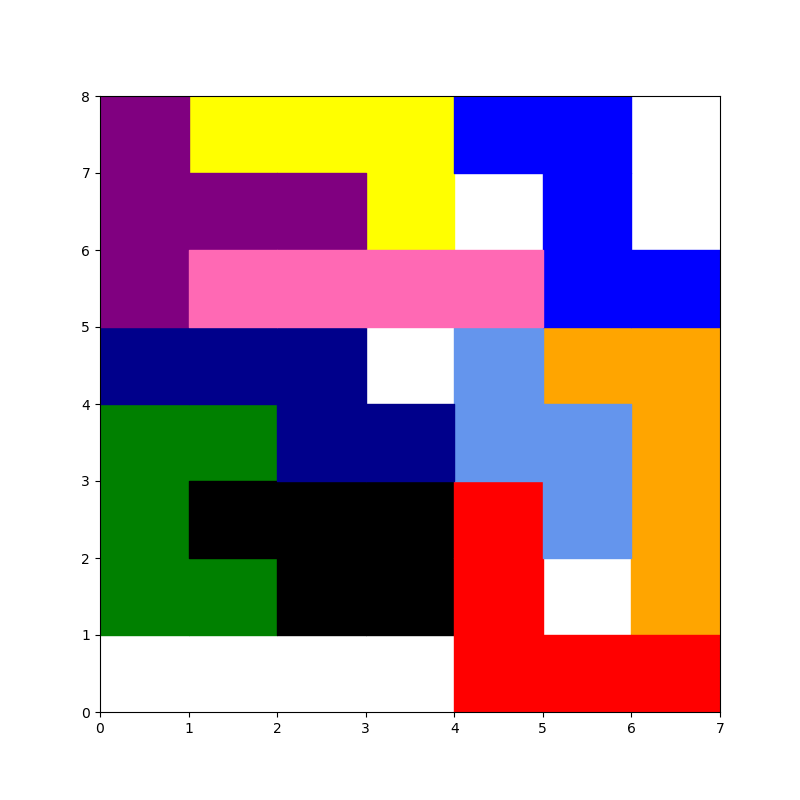
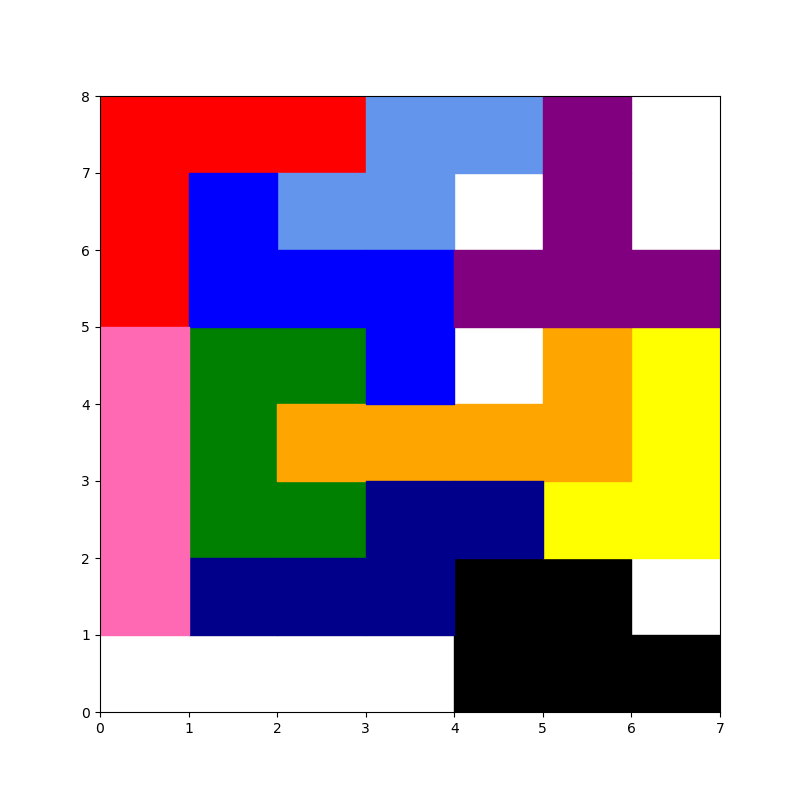
Re-worked block class

diff --git a/transformations.py b/transformations.py
@@ -1,7 +1,7 @@
 from ortools.sat.python import cp_model
 import numpy as np
 
-from classes import Point, Block
+from classes import Point, Cluster
 
 grid_size = 3
 
@@ -26,40 +26,34 @@ def transform_point(point: Point,
 
     return new_point
 
-def transform_block(block: Block, 
+def transform_cluster(cluster: Cluster, 
                   rotation: int, 
-                  flipped=False) -> Block:
+                  flipped=False) -> Cluster:
     """Takes a block, and rotates it 'rotation' quarters anti-clockwise around the origin.
     Also flips the block horizontally if flipped is True.
     """
 
-    new_block = Block({transform_point(point, rotation, flipped) for point in block.points})
-    return new_block
+    new_cluster = Cluster({transform_point(point, rotation, flipped) for point in cluster.points})
+    return new_cluster
 
-def centre_block(block: Block) -> Block:
+def centre_cluster(cluster: Cluster) -> Cluster:
 
-    min_x = min([point.x for point in block.points])
-    min_y = min([point.y for point in block.points])
+    min_x = min([point.x for point in cluster.points])
+    min_y = min([point.y for point in cluster.points])
 
-    new_block = Block([Point((point.x-min_x, point.y-min_y)) for point in block.points])
-    return new_block
+    new_cluster = Cluster([Point((point.x-min_x, point.y-min_y)) for point in cluster.points])
+    return new_cluster
 
-def unique_block_transformations(block: Block) -> list[Block]:
+def unique_cluster_orientations(cluster: Cluster) -> list[Cluster]:
 
-    unique_transformations = set()
+    unique_orientations = set()
 
     for flipped in [True,False]:
         for rotation in range(4):
-            new_block = transform_block(block, rotation, flipped)
-            new_block = centre_block(new_block)
-            unique_transformations.add(new_block)
+            new_cluster = transform_cluster(cluster, rotation, flipped)
+            new_cluster = centre_cluster(new_cluster)
+            unique_orientations.add(new_cluster)
 
-    unique_transformations = list(unique_transformations)
+    unique_orientations = list(unique_orientations)
 
-    return unique_transformations
-
-co_ords = [(0,0),(1,0),(0,1),(1,1)]
-block = Block([Point(p) for p in co_ords])
-all_blocks = unique_block_transformations(block)
-for a in all_blocks:
-    print(a)
+    return unique_orientations

diff --git a/model.py b/model.py
@@ -2,52 +2,27 @@ from ortools.sat.python import cp_model
 from classes import Point, Block
 from transformations import unique_block_transformations
 from matplotlib import pyplot as plt
+from build_inputs import Input
 
-# grid_x = 5
-# grid_y = 5
-
-# blocks = {
-#     'tee':{(0,0),(0,-1),(0,-2),(-1,0),(1,0)},
-#     'chunk':{(0,0),(1,0),(2,0),(1,1),(2,1)},
-#     'line':{(0,0),(0,1),(0,2)},
-#     'corner':{(0,0),(1,0),(2,0),(3,0),(3,1),(3,2)},
-#     'curly':{(0,0),(0,1),(0,2),(1,0),(2,0),(2,1)}
-# }
-
-grid_x = 7
-grid_y = 8
-
-blocks = {
-    'n':{(0,0),(0,1),(1,1),(2,1),(2,0)},
-    'b':{(0,0),(1,0),(2,0),(1,1),(2,1)},
-    'small_l':{(0,0),(0,1),(1,0),(2,0)},
-    'medium_l':{(0,0),(0,1),(1,0),(2,0),(3,0)},
-    'big_l':{(0,0),(0,1),(0,2),(1,0),(2,0)},
-    'short_z':{(0,0),(0,1),(1,1),(1,2)},
-    'wide_z':{(0,0),(0,1),(1,1),(2,1),(2,2)},
-    'tall_z':{(0,0),(0,1),(0,2),(1,2),(1,3)},
-    't':{(0,0),(0,-1),(0,-2),(-1,0),(1,0)},
-    'line':{(0,0),(0,1),(0,2),(0,3)},
-}
-
-avoid_squares = {(0,0),(1,0),(2,0),(3,0),(6,6),(6,7),
-                 (5,1),(3,4),(4,6)
-                 }
-
-blocks = {name:Block(Point(p) for p in points) for name,points in blocks.items()}
-transformations = {name:unique_block_transformations(block) for name,block in blocks.items()}
+inputs = Input('grid.json','blocks.json')
 
 model = cp_model.CpModel()
 
 all_blocks = {}
 
-# all_blocks is a dictionary of whether we have a block in a certain position / transformation
-for b, list_of_transforms in transformations.items():
-    for t,_ in enumerate(list_of_transforms):
-        for x in range(grid_x):
-            for y in range(grid_y):
+def initialise_block_bools(blocks, grid_x, grid_y) -> dict:
 
-                all_blocks[(b,t,x,y)] = model.new_bool_var(f'{b}_{t}_{x}_{y}')
+    block_bools = dict()
+
+    for block_name, clusters in blocks.items():
+        for cluster_id,_ in enumerate(clusters):
+            for x_pos in range(grid_x):
+                for y_pos in range(grid_y):
+                    all_blocks[(block_name,cluster_id,x_pos,y_pos)] = (
+                        model.new_bool_var(f'{block_name}_{cluster_id}_{x_pos}_{y_pos}')
+                    )
+
+    return block_bools
 
 # all_squares is an int showing the number of blocks that are on that square
 all_squares = {}

diff --git a/build_inputs.py b/build_inputs.py
@@ -1,0 +1,47 @@
+from classes import Point, Cluster
+from transformations import unique_cluster_orientations
+import json
+
+def load_grid_json(grid_file: str):
+
+    with open(grid_file) as file:
+        grid_json = json.load(file)
+
+    return grid_json
+
+def get_grid_exclusions(grid_json) -> list[Point]:
+
+    excluded_co_ords = [Point(p) for p in grid_json['excluded_squares']]
+
+    return excluded_co_ords
+
+def load_block_json(block_file: str):
+
+    with open(block_file) as file:
+        block_json = json.load(file)
+
+    return block_json
+
+def get_block_clusters(block_json) -> dict[str,list[Cluster]]:
+
+    initial_clusters = {
+        block_name: Cluster([Point(p) for p in points]) for block_name,points in block_json.items()
+        }
+    
+    block_clusters = {
+        block_name:unique_cluster_orientations(cluster) for block_name,cluster in initial_clusters.items()
+        }
+
+    return block_clusters
+
+class Input:
+
+    def __init__(self, grid_file, block_file):
+        
+        grid_json = load_grid_json(grid_file)
+        self.grid_exclusions = get_grid_exclusions(grid_json)
+        self.grid_x = grid_json['grid_x']
+        self.grid_y = grid_json['grid_y']
+
+        block_json = load_block_json(block_file)
+        self.block_clusters = get_block_clusters(block_json)

diff --git a/classes.py b/classes.py
@@ -1,7 +1,7 @@
 class Point:
     "A tuple of and x and y co-ordinate."
 
-    def __init__(self, co_ord: tuple[int,int]):
+    def __init__(self, co_ord: tuple[int,int] | list[int,int]):
 
         self.x = co_ord[0]
         self.y = co_ord[1]
@@ -16,7 +16,7 @@ class Point:
         return hash((self.x,self.y))
 
 
-class Block:
+class Cluster:
     "A frozen set of several points."
 
     def __init__(self, points: set[Point]):
@@ -25,8 +25,7 @@ class Block:
 
     def __repr__(self):
 
-        sorted_points = sorted(self.points, key=lambda p: (p.x,p.y))
-        list_of_points = [str(point) for point in sorted_points]
+        list_of_points = [str(point) for point in self.points]
 
         return f"[{','.join(list_of_points)}]"
 
